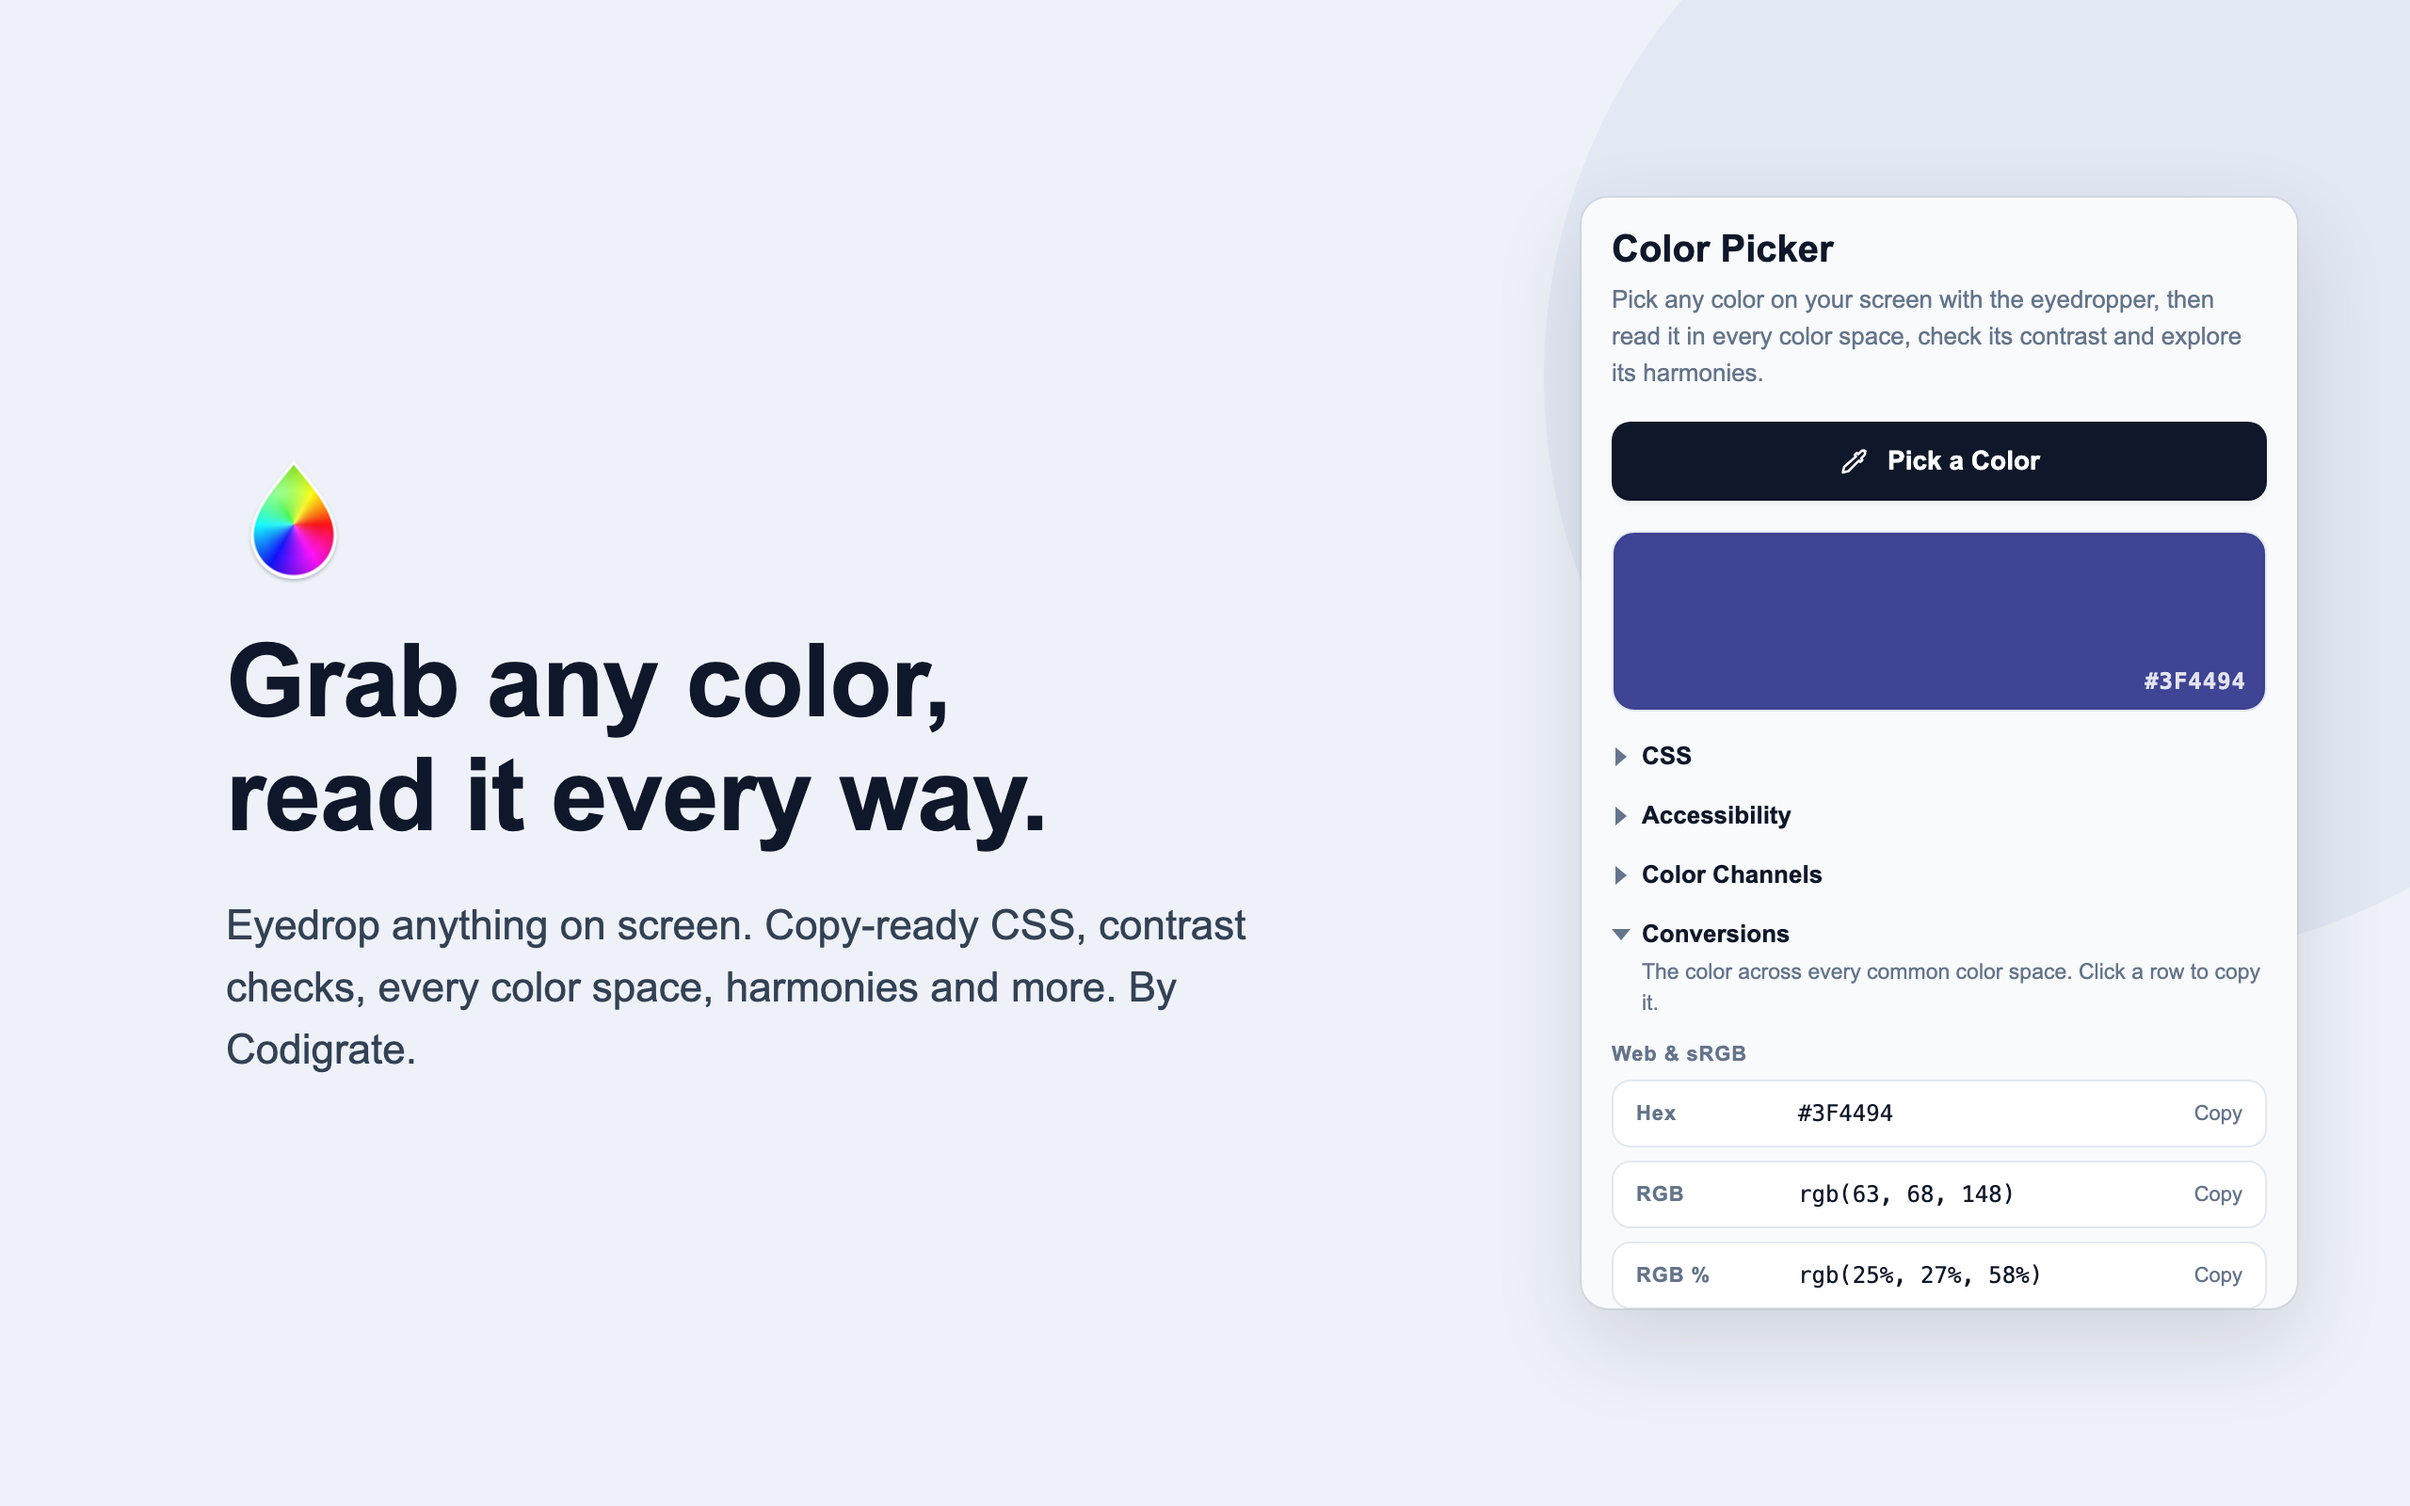
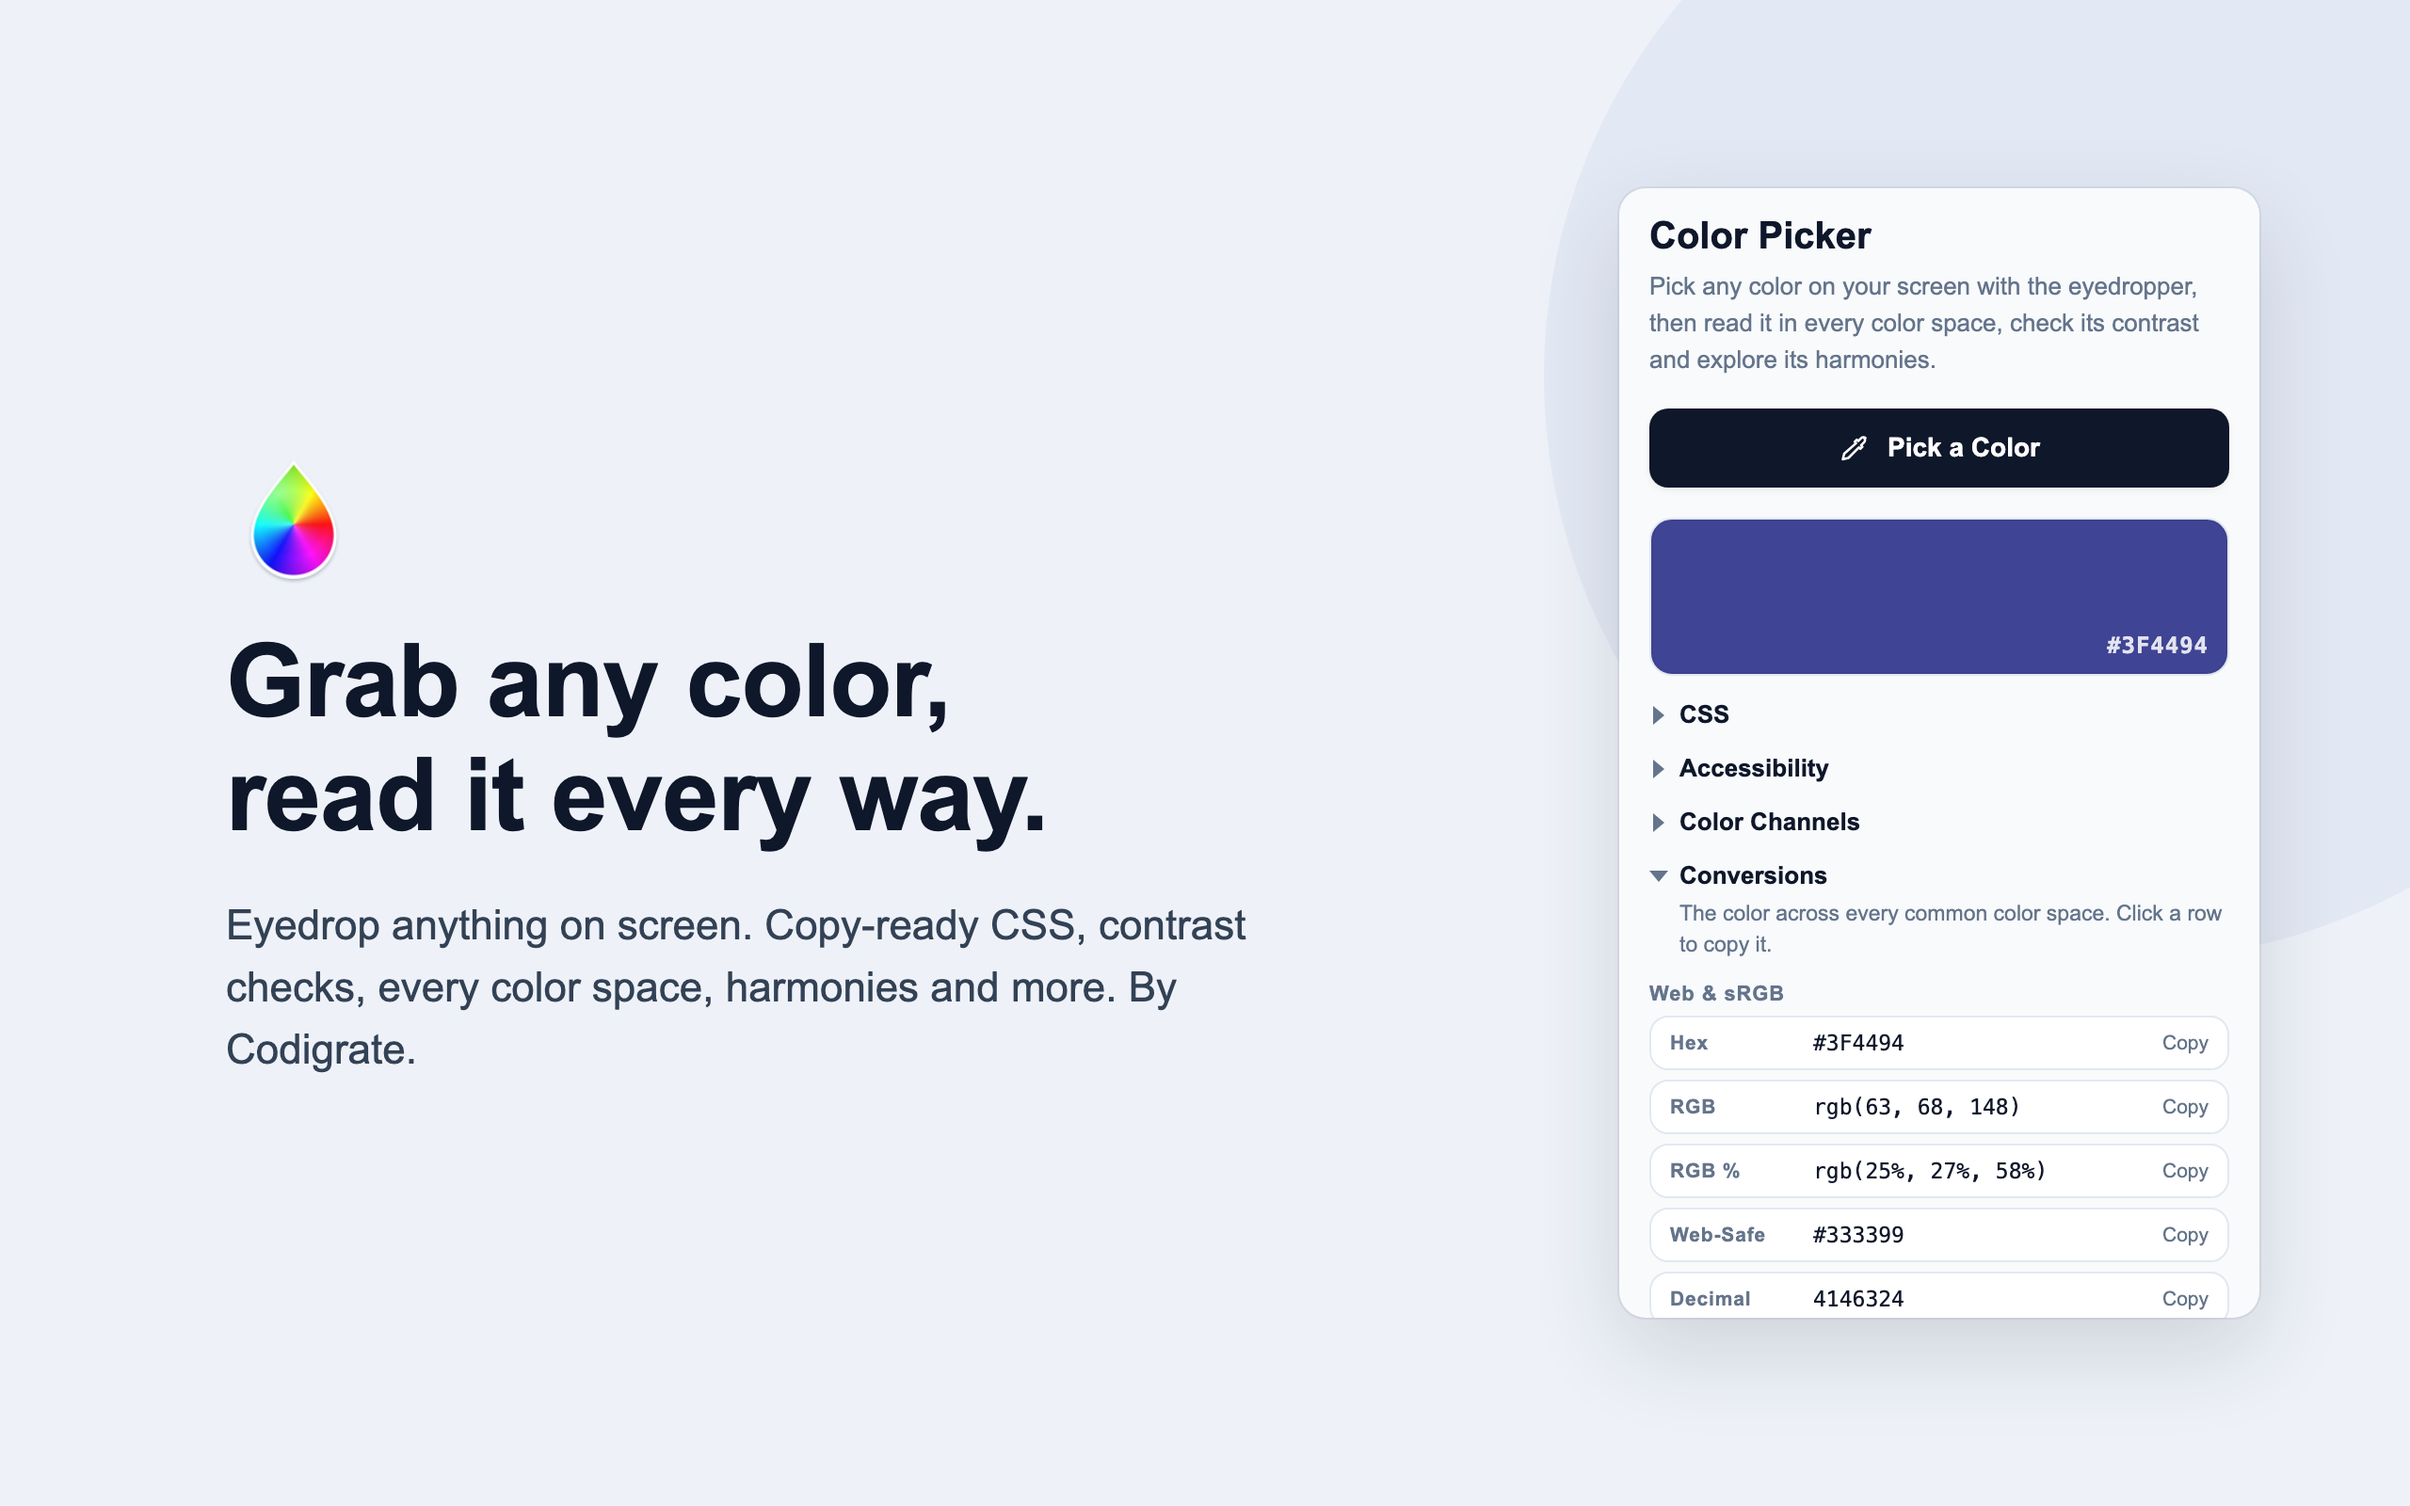
Popup narrower and taller: 340px wide, 600px tall, denser rows (like the macOS panel)

Changed region(s): [[0.6562, 0.125, 0.9688, 0.875]]

diff --git a/popup.css b/popup.css
@@ -67,7 +67,7 @@ h1 { margin: 0; font-size: 20px; font-weight: 800; color: var(--ink); }
 .hidden { display: none !important; }
 
 .swatch {
-  height: 96px;
+  height: 84px;
   border-radius: 12px;
   border: 1px solid var(--border);
   box-shadow: inset 0 0 0 1px rgba(15, 23, 42, 0.04);
@@ -182,8 +182,8 @@ h1 { margin: 0; font-size: 20px; font-weight: 800; color: var(--ink); }
 }
 
 /* ---- JetBrains-parity sections -------------------------------------------- */
-body { width: 380px; }
-.container { max-height: 590px; overflow-y: auto; }
+body { width: 340px; }
+.container { max-height: 600px; overflow-y: auto; padding: 14px 16px; }
 
 .swatch { position: relative; }
 .swatch-hex {
@@ -197,7 +197,7 @@ body { width: 380px; }
   opacity: 0.85;
 }
 
-.sec { margin-top: 16px; }
+.sec { margin-top: 13px; }
 
 .sec-head {
   display: flex;
@@ -234,7 +234,7 @@ body { width: 380px; }
   line-height: 1.45;
 }
 
-.sec-body { margin-top: 8px; display: flex; flex-direction: column; gap: 7px; }
+.sec-body { margin-top: 7px; display: flex; flex-direction: column; gap: 5px; }
 
 .group-head {
   margin-top: 4px;
@@ -244,23 +244,25 @@ body { width: 380px; }
   color: var(--muted);
 }
 
-.val .k { flex: 0 0 74px; }
-.val .v { font-size: 12px; word-break: break-all; }
+.val { padding: 7px 10px; gap: 8px; }
+.val .k { flex: 0 0 68px; font-size: 10.5px; }
+.val .v { font-size: 11.5px; word-break: break-all; }
+.copy-hint { font-size: 10.5px; }
 
 /* accessibility rows */
 .a11y-row {
   display: flex;
   align-items: center;
   gap: 10px;
-  padding: 8px 10px;
+  padding: 6px 10px;
   border: 1px solid var(--border);
   border-radius: 10px;
   background: var(--surface);
 }
 
 .a11y-sample {
-  flex: 0 0 40px;
-  height: 40px;
+  flex: 0 0 36px;
+  height: 36px;
   display: inline-flex;
   align-items: center;
   justify-content: center;
@@ -303,5 +305,6 @@ body { width: 380px; }
 .cvd-name { font-size: 12px; font-weight: 700; color: var(--ink); }
 .cvd-hex { font-family: 'SF Mono', ui-monospace, Menlo, Consolas, monospace; font-size: 11px; color: var(--muted); }
 
-/* ten ramp / temperature steps on one row: 10 × 28px + 9 × 6px = 334px < 348px */
-.strip .h-row { gap: 6px; }
+/* ten ramp / temperature steps on one row: 10 × 26px + 9 × 5px = 305px < 308px */
+.strip .h-row { gap: 5px; }
+.strip .chip, .cvd-row .chip { width: 26px; height: 26px; }

diff --git a/store/screenshot-src.html b/store/screenshot-src.html
@@ -14,11 +14,11 @@
   .copy img { width: 72px; height: 72px; display: block; margin-bottom: 20px; }
   .copy h2 { margin: 0; font-size: 54px; line-height: 1.12; font-weight: 800; color: #0F172A; letter-spacing: -0.01em; }
   .copy p { margin: 22px 0 0; font-size: 22px; line-height: 1.5; color: #334155; }
-  .shot { position: absolute; left: 840px; top: 105px; width: 380px; height: 590px; border-radius: 14px; overflow: hidden;
+  .shot { position: absolute; left: 860px; top: 100px; width: 340px; height: 600px; border-radius: 14px; overflow: hidden;
           background: #F8FAFC; box-shadow: 0 18px 48px rgba(15, 23, 42, 0.14), 0 0 0 1px rgba(15, 23, 42, 0.06); }
-  .shot .container { max-height: 590px; overflow: hidden; }
+  .shot .container { max-height: 600px; overflow: hidden; }
   .shot .h-row .chip { cursor: default; }
-  body.popup-only { background: transparent; width: 460px; height: 660px; }
+  body.popup-only { background: transparent; width: 420px; height: 670px; }
   body.popup-only .circle, body.popup-only .copy { display: none; }
   body.popup-only .shot { left: 40px; top: 30px; }
 </style>
